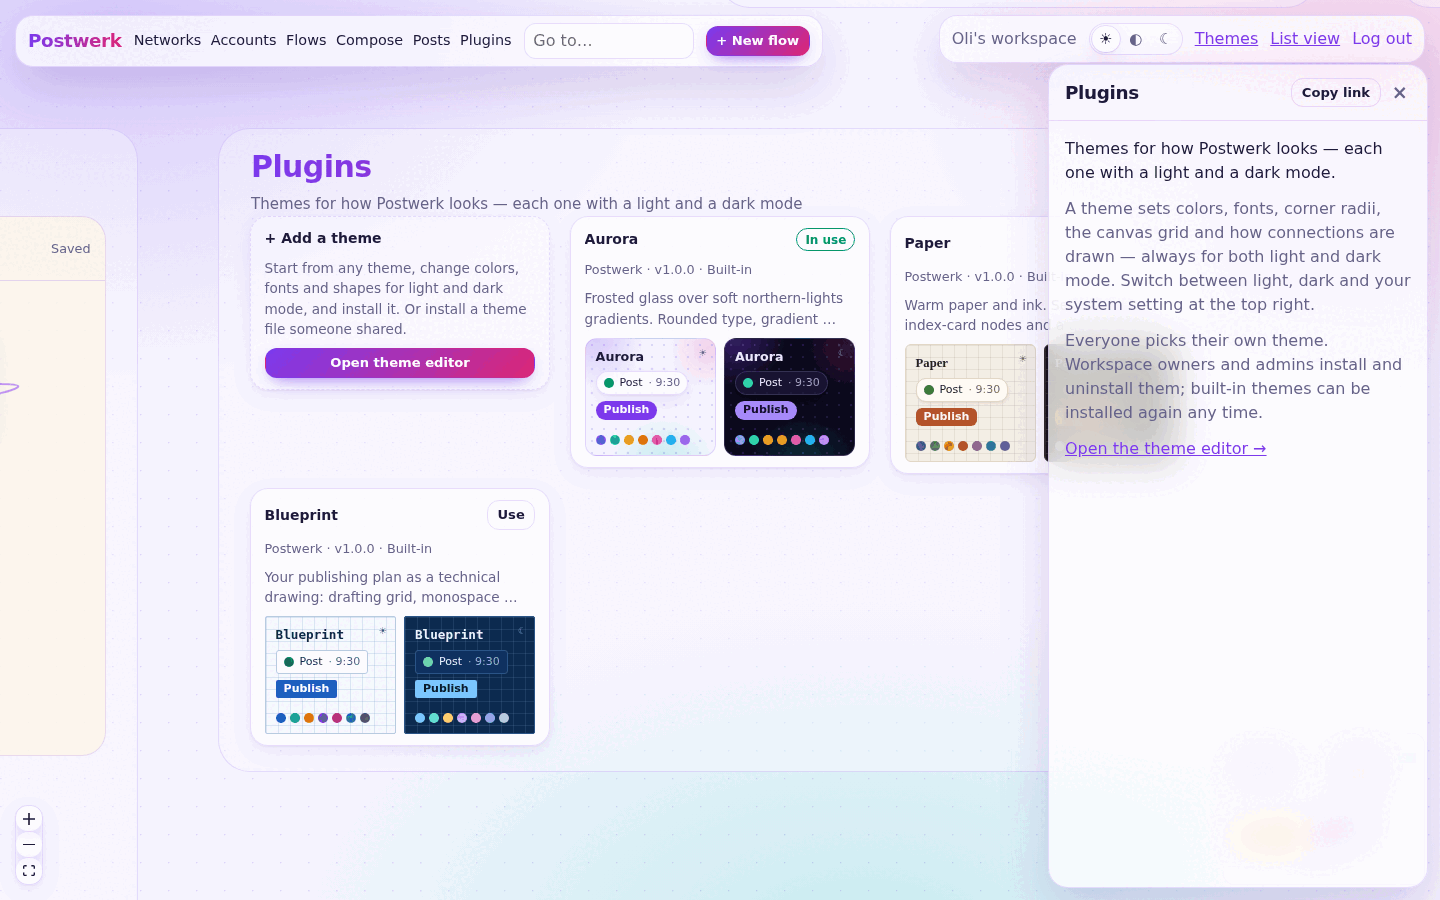
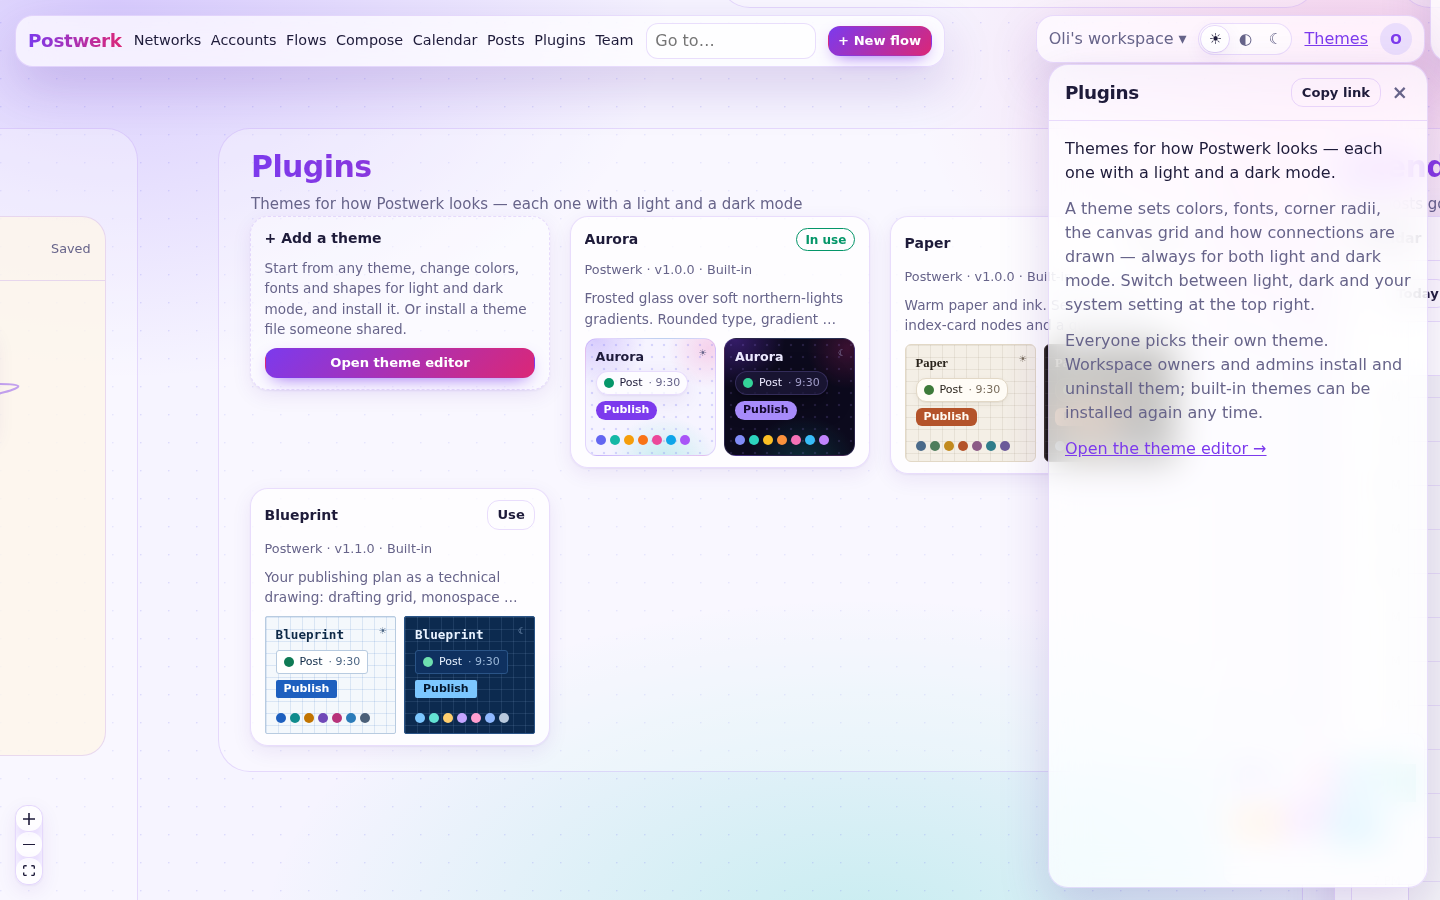
Docs: Phase 1 done, new screenshots
- PLAN.md: Phase 1 marked done with what shipped; flows' "next" list and
  the auth decision row updated; Bluesky now signs in with OAuth.
- README: calendar and German screenshots; canvas, composer and
  Blueprint screenshots refreshed for the new Team and Calendar regions.

Claude-Session: https://claude.ai/code/session_01RBGBSXw3FUB9ffViMyJSUT

diff --git a/docs/PLAN.md b/docs/PLAN.md
@@ -18,7 +18,7 @@ Postwerk therefore distinguishes three kinds of connections:
 
 | Kind | Who needs a developer app? | Networks |
 |---|---|---|
-| **Open protocol** | Nobody | Mastodon (we register an OAuth client on each server automatically), Bluesky (app password today, AT Protocol OAuth later) |
+| **Open protocol** | Nobody | Mastodon (we register an OAuth client on each server automatically), Bluesky (AT Protocol OAuth on the user's own server; app passwords as a fallback) |
 | **Native (operator app)** | Only the operator, once | Instagram, Facebook, Threads, LinkedIn, Reddit, YouTube, TikTok, Pinterest, Google Business Profile, X |
 | **Bridge (aggregator)** | Nobody — the aggregator has the approvals | Everything an aggregator supports, until our own native approval is in place |
 
@@ -52,7 +52,7 @@ packages/providers   One module per network behind a common Provider interface
 |---|---|---|
 | Postgres is the job queue (`FOR UPDATE SKIP LOCKED` polling) | One less service, no dual writes between DB and queue, transactional | > ~50 posts/second or sub-second scheduling needed → add a queue (BullMQ/pg-boss) |
 | Credentials encrypted with AES-256-GCM (`ENCRYPTION_KEY`) | A leaked database alone exposes no tokens | Hosted version: move key to KMS, add key rotation |
-| Minimal own auth (scrypt + hashed session tokens) | Small, auditable, no framework lock-in | Phase 1: add password reset, 2FA, "Sign in with Google" — evaluate Better Auth then |
+| Minimal own auth (scrypt + hashed session tokens) | Small, auditable, no framework lock-in | Password reset, verification and rate limiting added in Phase 1; next: 2FA, "Sign in with Google" — evaluate Better Auth then |
 | Provider errors carry `retryable` / `needsReauth` | Worker decides retry vs. fail vs. "please reconnect" uniformly | — |
 | Idempotency key per target | A retried publish must never double-post (Mastodon supports it natively) | Add per-network dedupe where APIs allow |
 | TypeScript monorepo, npm workspaces | One language end to end; matches the physio site | — |
@@ -76,7 +76,7 @@ Sizes: **S** ≈ days, **M** ≈ 1–2 weeks, **L** ≈ several weeks (one devel
 - One zoomable 2D world (React Flow): regions for Networks (provider overview), Accounts, Flows, Compose and Posts; positions persist per workspace
 - Deep links to every node (`#n=<id>`) and every view (`#@x,y,zoom`); inspector side panel per node
 - Flow builder: New post → Add text / Shorten to fit / Wait → Publish to account; autosaved, previewed live, used by the composer
-- Next for flows: approval step, per-network text variants, recurring triggers (RSS, schedule), conditions (e.g. only if media), flow templates
+- Next for flows: approval step, recurring triggers (RSS, schedule), conditions (e.g. only if media), flow templates
 
 ### Themes as plugins ✅
 - The whole look is a plugin: a theme is a JSON manifest with design tokens for light **and** dark mode (both required), canvas options (grid, connection style) and optional extra CSS — format in [THEMES.md](THEMES.md)
@@ -86,17 +86,16 @@ Sizes: **S** ≈ days, **M** ≈ 1–2 weeks, **L** ≈ several weeks (one devel
 - Themes are self-contained by design: no remote URLs, imports or fonts, so a theme cannot track users or leak data
 - Next: more plugin kinds behind the same install/uninstall model (e.g. flow steps, composer helpers), a shared theme gallery, trying a theme on the whole canvas before installing it
 
-### Phase 1 — A product people can use daily
-| Item | Size |
-|---|---|
-| Media uploads (S3-compatible or local disk) — the composer currently takes public media URLs; per-network media rules and alt text already exist | L |
-| Edit and reschedule posts; per-network text variants ("customize for LinkedIn") | M |
-| Calendar region on the canvas (week/month), drag to reschedule | M |
-| Bluesky via AT Protocol OAuth (no app password needed) | S |
-| Workspace invites, roles (owner/admin/editor), workspace switcher | M |
-| Email: password reset, verification, "post failed" notifications | M |
-| Login rate limiting, audit log | S |
-| German + English UI (i18n) | S |
+### Phase 1 — A product people can use daily ✅
+- **Media uploads** to local disk or any S3-compatible storage (custom SigV4, no SDK): drag and drop with progress, files checked by their content (not their name), served with strict headers; networks that need the bytes read them straight from storage. Media links still work for files hosted elsewhere
+- **Edit, reschedule, retry**: scheduled, draft and failed posts open in the composer again; flows keep their delays when a post moves; failed networks can be retried; published posts can be posted again. **Per-network text versions** ("customize for LinkedIn") — each network starts from its own text, then flows apply
+- **Calendar region** (and `/calendar`): week and month views in the viewer's time zone and first day of the week; drag a post to another slot or day, or move it from its details; double-click to plan a new post at that time
+- **Bluesky via AT Protocol OAuth**: sign in on your own server (PAR, PKCE, DPoP); Postwerk is a confidential client on https with its own signing key, a loopback client on localhost; app passwords stay as the fallback
+- **Teams**: several workspaces per user with a switcher, invite links (optionally emailed), roles owner / admin / editor, and a rule that a workspace always keeps an owner
+- **Email** (any SMTP server): address verification, password reset, invites, and an email to the author when a post fails or goes out only partly (can be turned off)
+- **Security**: login and sign-up rate limiting per email and per IP, and an audit log of sign-ins, account, post, flow, plugin and team changes (Team region and `/activity`)
+- **German and English UI**: everything people see, including validation, errors, emails and network texts; the language follows the browser or the account setting. Messages that come from the networks' APIs stay as the networks send them
+- Next: two-factor sign-in, "Sign in with Google", per-network previews in the calendar, recurring posts
 
 ### Phase 2 — The bridge: every network, no approvals needed
 | Item | Size |

diff --git a/README.md b/README.md
@@ -19,6 +19,10 @@ Self-hosted social media scheduling. Connect your accounts with one click, write
 |---|---|
 | ![Flow](docs/screenshots/canvas-flow.png) | ![Composer](docs/screenshots/canvas-composer.png) |
 
+| Calendar | Auf Deutsch |
+|---|---|
+| ![Calendar](docs/screenshots/canvas-calendar.png) | ![German UI](docs/screenshots/canvas-german.png) |
+
 | Aurora | Paper | Blueprint |
 |---|---|---|
 | ![Aurora](docs/screenshots/theme-aurora-dark.png) | ![Paper](docs/screenshots/theme-paper-light.png) | ![Blueprint](docs/screenshots/theme-blueprint-dark.png) |
